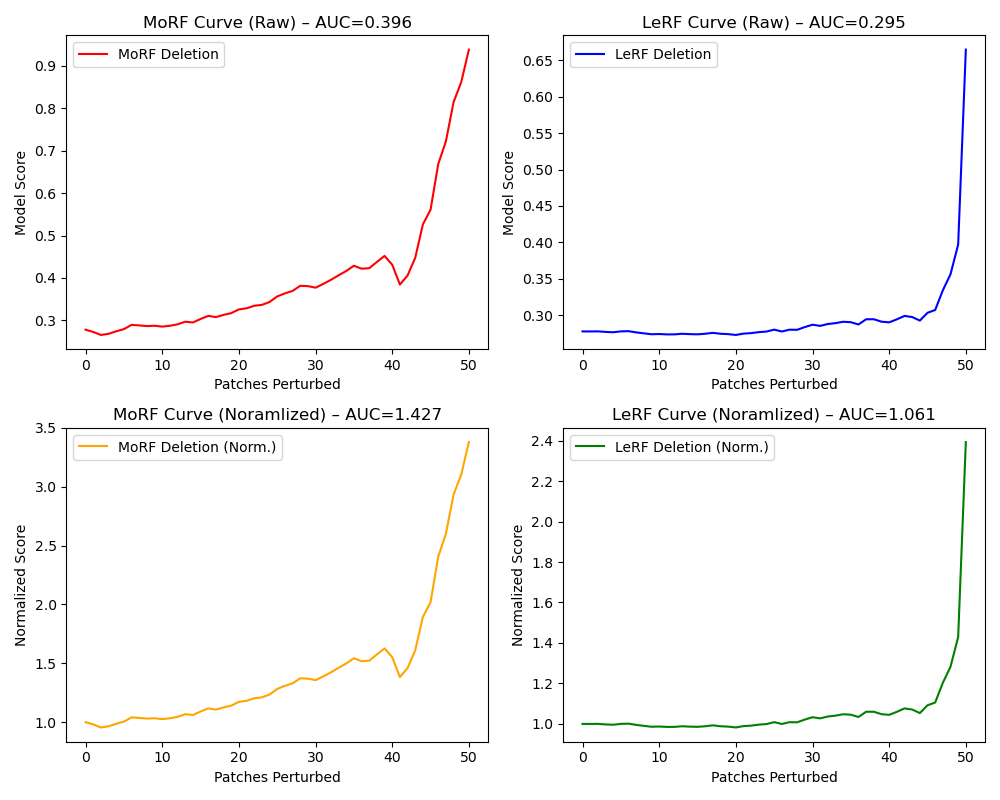
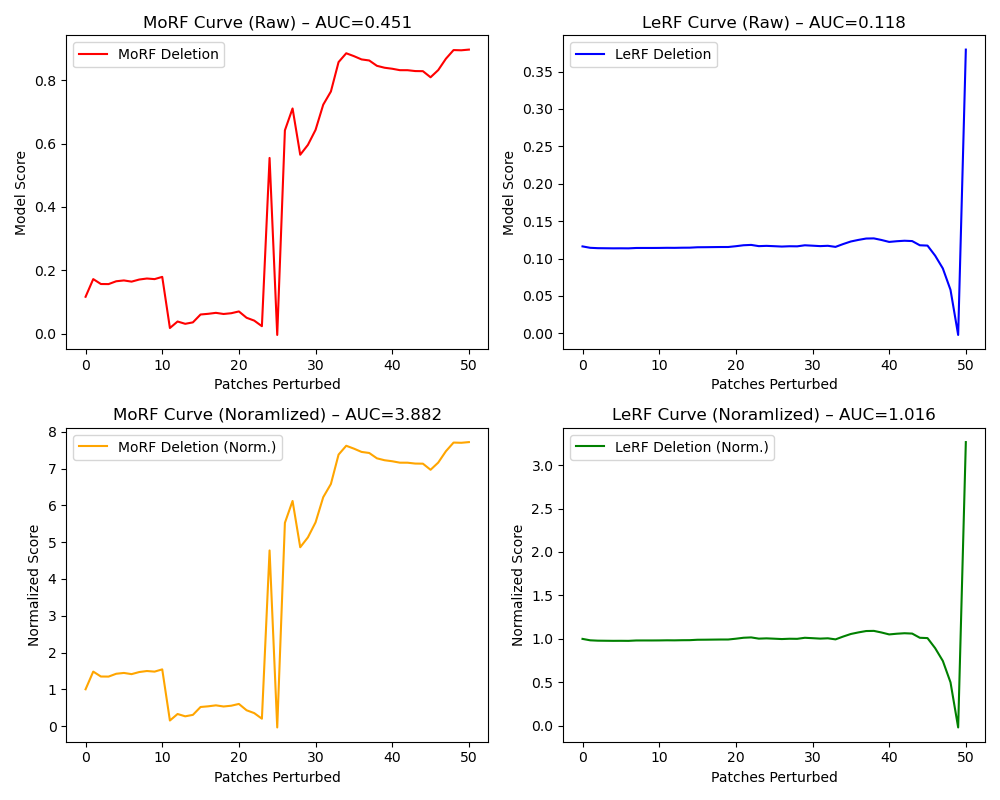
score fix maybe

diff --git a/src/bachelor_thesis/eval_helpers.py b/src/bachelor_thesis/eval_helpers.py
@@ -82,6 +82,107 @@ def _run_knn_perturbation(
             
     return output_curve
 
+def normalize_curve(curve: torch.Tensor) -> torch.Tensor:
+    """Normalize the curve by its starting value to ensure comparability."""
+    start_val = curve[0].item()
+    if abs(start_val) < 1e-6:  # avoid div-by-zero
+        return curve
+    return curve / start_val
+
+def srg_knn(
+    relevance_map: torch.Tensor,
+    input_tensor: torch.Tensor,
+    model: torch.nn.Module, # UN-PATCHED model
+    patch_size: int,
+    # k-NN specific args
+    db_embeddings: torch.Tensor,
+    db_filenames: list,
+    input_filename: str,
+    distance_metric: str,
+    k_neighbors: int,
+    plot_curves: bool = False
+) -> float:
+    """
+    Calculates the ∆A_F (SRG-like) score for a k-NN explanation.
+    A higher score is better.
+    """
+    relevance_per_pixel = torch.abs(relevance_map).sum(dim=1, keepdim=True)
+    patch_relevance = F.avg_pool2d(relevance_per_pixel, kernel_size=patch_size, stride=patch_size)
+    patch_relevance_flat = patch_relevance.flatten()
+
+    lerf_order = torch.argsort(patch_relevance_flat, descending=False)
+    morf_order = torch.argsort(patch_relevance_flat, descending=True)
+
+    morf_curve = _run_knn_perturbation(
+        model, input_tensor, morf_order, 'deletion', patch_size, 
+        db_embeddings, db_filenames, input_filename, distance_metric, k_neighbors
+    )
+    lerf_curve = _run_knn_perturbation(
+        model, input_tensor, lerf_order, 'deletion', patch_size,
+        db_embeddings, db_filenames, input_filename, distance_metric, k_neighbors
+    )
+
+    morf_curve_norm = normalize_curve(morf_curve)
+    lerf_curve_norm = normalize_curve(lerf_curve)
+
+    auc_morf_norm = calculate_auc(morf_curve_norm)
+    auc_lerf_norm = calculate_auc(lerf_curve_norm)
+    
+    delta_a_f_norm = auc_lerf_norm - auc_morf_norm
+
+    auc_morf = calculate_auc(morf_curve)
+    auc_lerf = calculate_auc(lerf_curve)
+    
+    delta_a_f = auc_lerf - auc_morf
+    
+    print(f"\n--- Faithfulness Score (∆A_F) ---")
+    print(f"Area under LeRF curve: {auc_lerf:.4f}")
+    print(f"Area under MoRF curve: {auc_morf:.4f}")
+    print(f"Final Score (A_LeRF - A_MoRF): {delta_a_f:.4f}")
+
+    print(f"Normalized Final Score (A_LeRF - A_MoRF): {delta_a_f_norm:.4f}")
+
+    if plot_curves:
+        fig, axs = plt.subplots(2, 2, figsize=(10, 8))
+        axs[0, 0].plot(morf_curve.cpu().numpy(), label='MoRF Deletion', color='red')
+        axs[0, 0].set_title(f'MoRF Curve (Raw) – AUC={auc_morf:.3f}')
+        axs[0, 0].set_xlabel('Patches Perturbed')
+        axs[0, 0].set_ylabel('Model Score')
+        axs[0, 0].legend()
+
+        axs[0, 1].plot(lerf_curve.cpu().numpy(), label='LeRF Deletion', color='blue')
+        axs[0, 1].set_title(f'LeRF Curve (Raw) – AUC={auc_lerf:.3f}')
+        axs[0, 1].set_xlabel('Patches Perturbed')
+        axs[0, 1].set_ylabel('Model Score')
+        axs[0, 1].legend()
+
+        axs[1, 0].plot(morf_curve_norm.cpu().numpy(), label='MoRF Deletion (Norm.)', color='orange')
+        axs[1, 0].set_title(f'MoRF Curve (Noramlized) – AUC={auc_morf_norm:.3f}')
+        axs[1, 0].set_xlabel('Patches Perturbed')
+        axs[1, 0].set_ylabel('Normalized Score')
+        axs[1, 0].legend()
+
+        axs[1, 1].plot(lerf_curve_norm.cpu().numpy(), label='LeRF Deletion (Norm.)', color='green')
+        axs[1, 1].set_title(f'LeRF Curve (Noramlized) – AUC={auc_lerf_norm:.3f}')
+        axs[1, 1].set_xlabel('Patches Perturbed')
+        axs[1, 1].set_ylabel('Normalized Score')
+        axs[1, 1].legend()
+
+        plt.tight_layout()
+        plt.savefig("/workspaces/bachelor_thesis_code/src/bachelor_thesis/curves/deletion_metric_curves_split.png")
+
+
+    return {
+        "faithfulness_score": delta_a_f,
+        "normalized_faithfulness_score": delta_a_f_norm,
+        "morf_curve": morf_curve.cpu().numpy(),
+        "lerf_curve": lerf_curve.cpu().numpy(),
+        "morf_curve_norm": morf_curve_norm.cpu().numpy(),
+        "lerf_curve_norm": lerf_curve_norm.cpu().numpy(),
+        "auc_morf": auc_morf,
+        "auc_lerf": auc_lerf,
+    }
+
 def _run_perturbation(
     model: TimmWrapper, # Expects the UN-PATCHED model
     input_tensor: torch.Tensor,
@@ -214,106 +315,7 @@ def srg(
 
     return delta_a_f
 
-def normalize_curve(curve: torch.Tensor) -> torch.Tensor:
-    """Normalize the curve by its starting value to ensure comparability."""
-    start_val = curve[0].item()
-    if abs(start_val) < 1e-6:  # avoid div-by-zero
-        return curve
-    return curve / start_val
 
-def srg_knn(
-    relevance_map: torch.Tensor,
-    input_tensor: torch.Tensor,
-    model: torch.nn.Module, # UN-PATCHED model
-    patch_size: int,
-    # k-NN specific args
-    db_embeddings: torch.Tensor,
-    db_filenames: list,
-    input_filename: str,
-    distance_metric: str,
-    k_neighbors: int,
-    plot_curves: bool = False
-) -> float:
-    """
-    Calculates the ∆A_F (SRG-like) score for a k-NN explanation.
-    A higher score is better.
-    """
-    relevance_per_pixel = torch.abs(relevance_map).sum(dim=1, keepdim=True)
-    patch_relevance = F.avg_pool2d(relevance_per_pixel, kernel_size=patch_size, stride=patch_size)
-    patch_relevance_flat = patch_relevance.flatten()
-
-    lerf_order = torch.argsort(patch_relevance_flat, descending=False)
-    morf_order = torch.argsort(patch_relevance_flat, descending=True)
-
-    morf_curve = _run_knn_perturbation(
-        model, input_tensor, morf_order, 'deletion', patch_size, 
-        db_embeddings, db_filenames, input_filename, distance_metric, k_neighbors
-    )
-    lerf_curve = _run_knn_perturbation(
-        model, input_tensor, lerf_order, 'deletion', patch_size,
-        db_embeddings, db_filenames, input_filename, distance_metric, k_neighbors
-    )
-
-    morf_curve_norm = normalize_curve(morf_curve)
-    lerf_curve_norm = normalize_curve(lerf_curve)
-
-    auc_morf_norm = calculate_auc(morf_curve_norm)
-    auc_lerf_norm = calculate_auc(lerf_curve_norm)
-    
-    delta_a_f_norm = auc_lerf_norm - auc_morf_norm
-
-    auc_morf = calculate_auc(morf_curve)
-    auc_lerf = calculate_auc(lerf_curve)
-    
-    delta_a_f = auc_lerf - auc_morf
-    
-    print(f"\n--- Faithfulness Score (∆A_F) ---")
-    print(f"Area under LeRF curve: {auc_lerf:.4f}")
-    print(f"Area under MoRF curve: {auc_morf:.4f}")
-    print(f"Final Score (A_LeRF - A_MoRF): {delta_a_f:.4f}")
-
-    print(f"Normalized Final Score (A_LeRF - A_MoRF): {delta_a_f_norm:.4f}")
-
-    if plot_curves:
-        fig, axs = plt.subplots(2, 2, figsize=(10, 8))
-        axs[0, 0].plot(morf_curve.cpu().numpy(), label='MoRF Deletion', color='red')
-        axs[0, 0].set_title(f'MoRF Curve (Raw) – AUC={auc_morf:.3f}')
-        axs[0, 0].set_xlabel('Patches Perturbed')
-        axs[0, 0].set_ylabel('Model Score')
-        axs[0, 0].legend()
-
-        axs[0, 1].plot(lerf_curve.cpu().numpy(), label='LeRF Deletion', color='blue')
-        axs[0, 1].set_title(f'LeRF Curve (Raw) – AUC={auc_lerf:.3f}')
-        axs[0, 1].set_xlabel('Patches Perturbed')
-        axs[0, 1].set_ylabel('Model Score')
-        axs[0, 1].legend()
-
-        axs[1, 0].plot(morf_curve_norm.cpu().numpy(), label='MoRF Deletion (Norm.)', color='orange')
-        axs[1, 0].set_title(f'MoRF Curve (Noramlized) – AUC={auc_morf_norm:.3f}')
-        axs[1, 0].set_xlabel('Patches Perturbed')
-        axs[1, 0].set_ylabel('Normalized Score')
-        axs[1, 0].legend()
-
-        axs[1, 1].plot(lerf_curve_norm.cpu().numpy(), label='LeRF Deletion (Norm.)', color='green')
-        axs[1, 1].set_title(f'LeRF Curve (Noramlized) – AUC={auc_lerf_norm:.3f}')
-        axs[1, 1].set_xlabel('Patches Perturbed')
-        axs[1, 1].set_ylabel('Normalized Score')
-        axs[1, 1].legend()
-
-        plt.tight_layout()
-        plt.savefig("/workspaces/bachelor_thesis_code/src/bachelor_thesis/curves/deletion_metric_curves_split.png")
-
-
-    return {
-        "faithfulness_score": delta_a_f,
-        "normalized_faithfulness_score": delta_a_f_norm,
-        "morf_curve": morf_curve.cpu().numpy(),
-        "lerf_curve": lerf_curve.cpu().numpy(),
-        "morf_curve_norm": morf_curve_norm.cpu().numpy(),
-        "lerf_curve_norm": lerf_curve_norm.cpu().numpy(),
-        "auc_morf": auc_morf,
-        "auc_lerf": auc_lerf,
-    }
 
 
 

diff --git a/src/bachelor_thesis/knn_helpers.py b/src/bachelor_thesis/knn_helpers.py
@@ -97,17 +97,17 @@ def get_knn_db(knn_db_dir: str, image_dir: str, model_wrapper: TimmWrapper, tran
     #TODO: also include data name here for comparison so that i can have multiple databases for different datasets
     checkpoint_name = os.path.basename(cfg["checkpoint_path"]).split('.')[0]
     dataset_name = image_dir.split('/')[-1]
-    db_dir_name = f"{checkpoint_name}_{dataset_name}"
+    db_name = f"{checkpoint_name}_{dataset_name}"
 
     files_in_dir = os.listdir(knn_db_dir)
-    matching_checkpoints = [f for f in files_in_dir if db_dir_name in f]
+    matching_checkpoints = [f for f in files_in_dir if db_name in f]
     if matching_checkpoints:
-        print(f"KNN database {db_dir_name} already exists. Loading the KNN database...")
+        print(f"KNN database {db_name} already exists. Loading the KNN database...")
         dataset = torch.load(os.path.join(knn_db_dir, matching_checkpoints[0]))
         db_embeddings = dataset["embeddings"].to(device)
         db_filenames = dataset["filenames"]
     else:
-        print(f"KNN database {db_dir_name} does not exist. Filling the KNN database...")
+        print(f"KNN database {db_name} does not exist. Filling the KNN database...")
         db_embeddings, db_filenames = fill_knn_db(
             image_dir=image_dir,
             model_wrapper=model_wrapper,
@@ -188,7 +188,7 @@ def compute_knn_proxy_score(
     query_filename: str,
     db_embeddings: torch.Tensor,
     db_filenames: list,
-    distance_metric: str = "euclidean",
+    distance_metric: str = "cosine",
     k: int = 5,
 ) -> torch.Tensor:
     """
@@ -218,14 +218,12 @@ def compute_knn_proxy_score(
 
     with torch.no_grad():
         distances = compute_distances(query_embedding.detach(), db_embeddings, distance_metric)
-
-        # Mask the query's self-distance to prevent it from being selected
         try:
             query_idx = db_filenames.index(query_filename)
-            distances[query_idx] = torch.inf  
+            distances[query_idx] = torch.inf
         except ValueError:
-            raise ValueError(f"Query filename '{query_filename}' not found.")
-
+            # It's fine if the query isn't in the DB, just means no mask is needed.
+            pass
         top_k_indices = torch.topk(distances, k, largest=False).indices
     
     friends_indices = []
@@ -240,20 +238,18 @@ def compute_knn_proxy_score(
 
     differentiable_distances = compute_distances(query_embedding, db_embeddings, distance_metric)
 
+    MAX_DISTANCE = 2.0 # both euclidean and cosine distances are in [0, 2]
+
     if friends_indices:
         dist_friends = differentiable_distances[friends_indices].mean()
     else:
-        # If no friends, their contribution to the score is 0.
-        dist_friends = torch.tensor(0.0, device=query_embedding.device)
+        dist_friends = torch.tensor(MAX_DISTANCE, device=query_embedding.device)
 
     if foes_indices:
         dist_foes = differentiable_distances[foes_indices].mean()
     else:
-        # If no foes, their contribution to the score is 0.
-        # This makes the score simply -mean(dist_friends)
-        dist_foes = torch.tensor(0.0, device=query_embedding.device)
+        dist_foes = torch.tensor(MAX_DISTANCE, device=query_embedding.device)
 
     score = dist_foes - dist_friends
-    
     return score
 

diff --git a/src/bachelor_thesis/run_dinov2_attnlrp_sweep.py b/src/bachelor_thesis/run_dinov2_attnlrp_sweep.py
@@ -20,6 +20,7 @@ from dinov2_attnlrp_sweep import (
 from lrp_helpers import visualize_relevances
 from knn_helpers import get_knn_db
 
+#TODO: use dataset class?
 
 def get_image_path_map(image_dir: str):
     """
